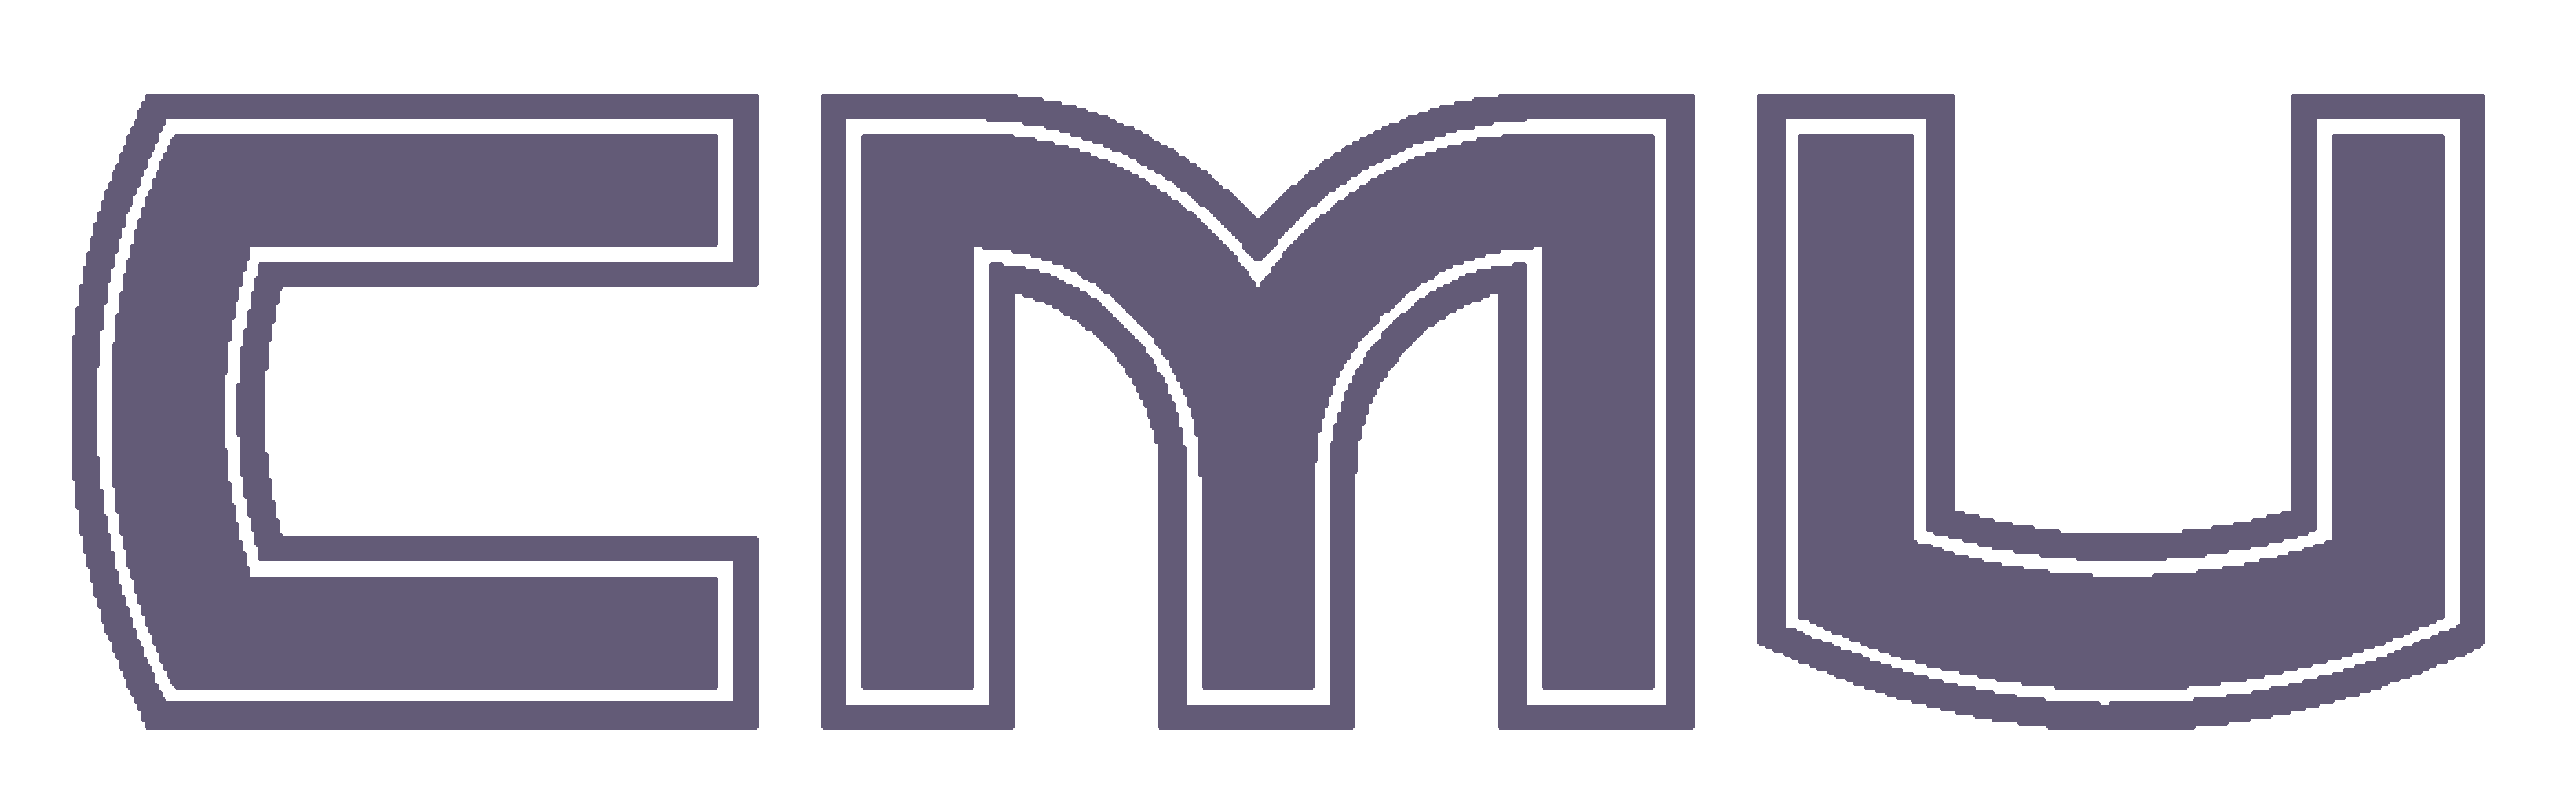
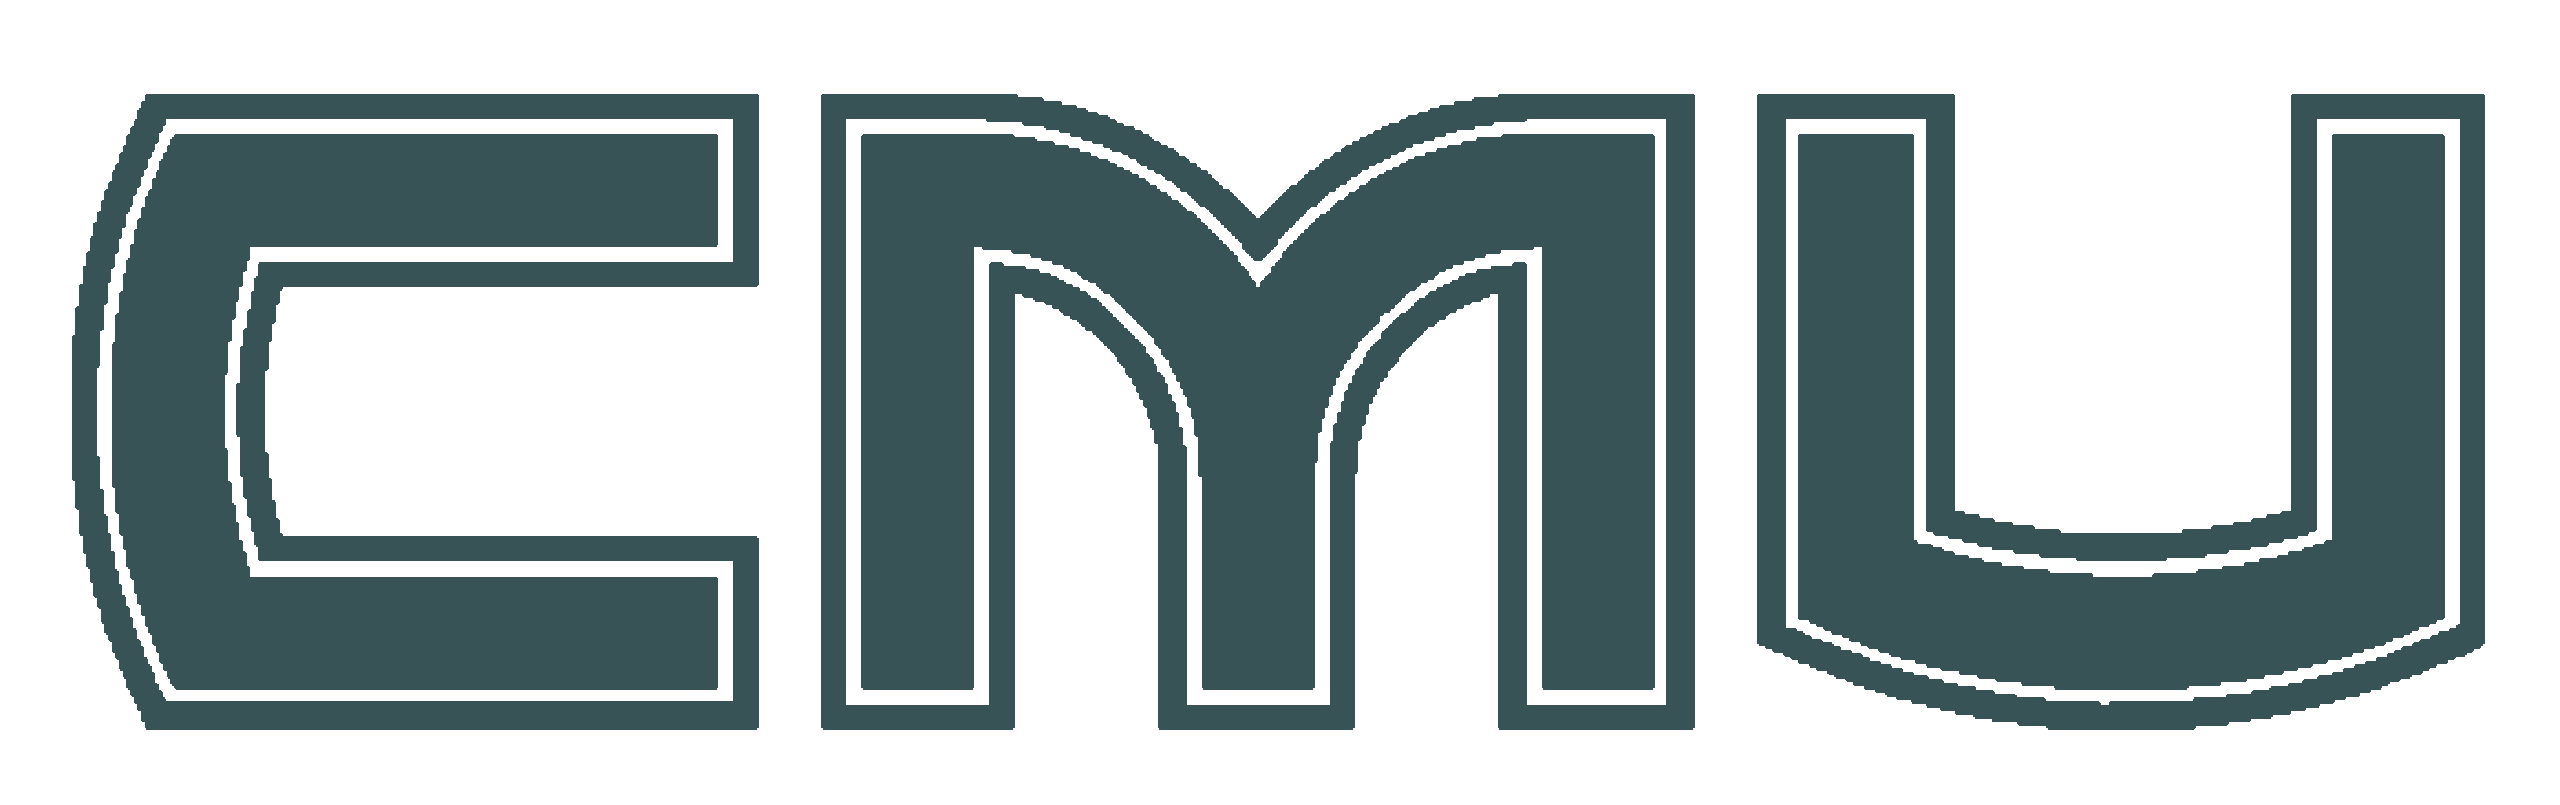
set color palette

diff --git a/2025/04/colors.css b/2025/04/colors.css
@@ -1,12 +1,12 @@
 :root {
-	--page-color: #e9e8f8;
+	--page-color: #feffff;
 
-	--title-tx-color: #635b77;
+	--title-tx-color: #385355;
 	--h-color: var(--title-tx-color);
 
-	--tx-color: #8e93c3;
+	--tx-color: #698f72;
 
-	--box-bg-color: #eff2f7;
+	--box-bg-color: #ffe4d6;
 	--box-tx-color: var(--title-tx-color);
 }
 
